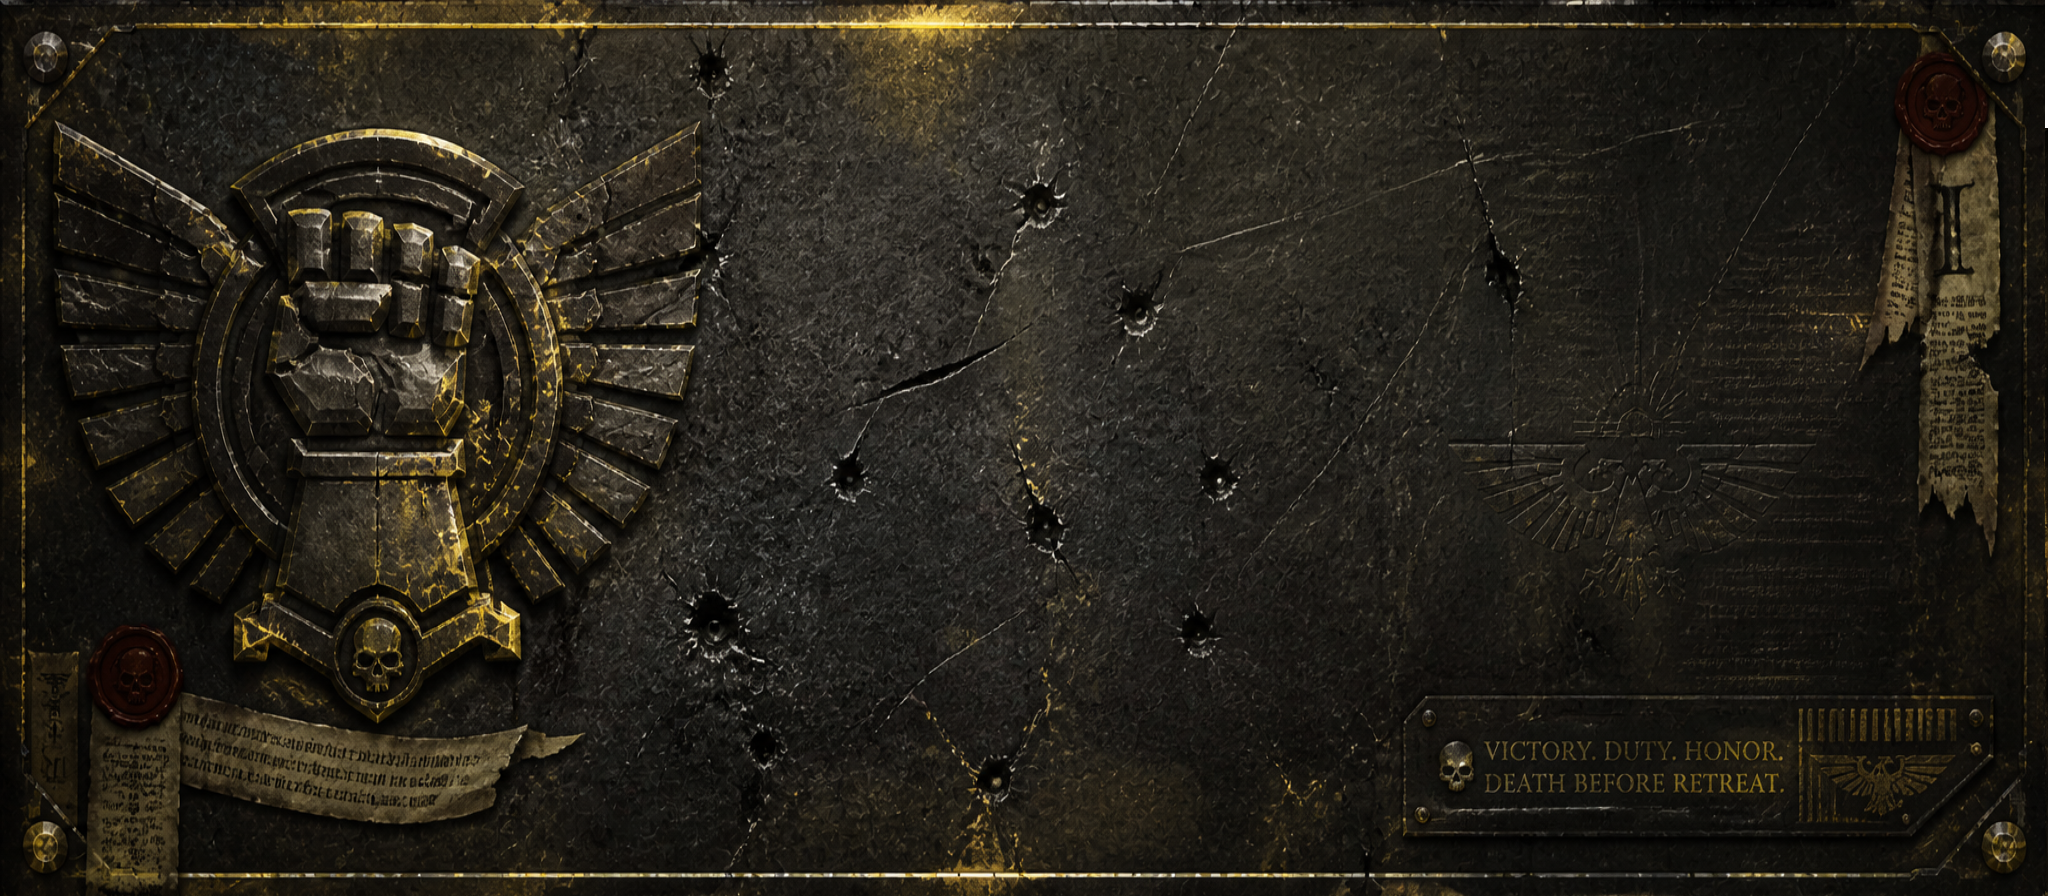
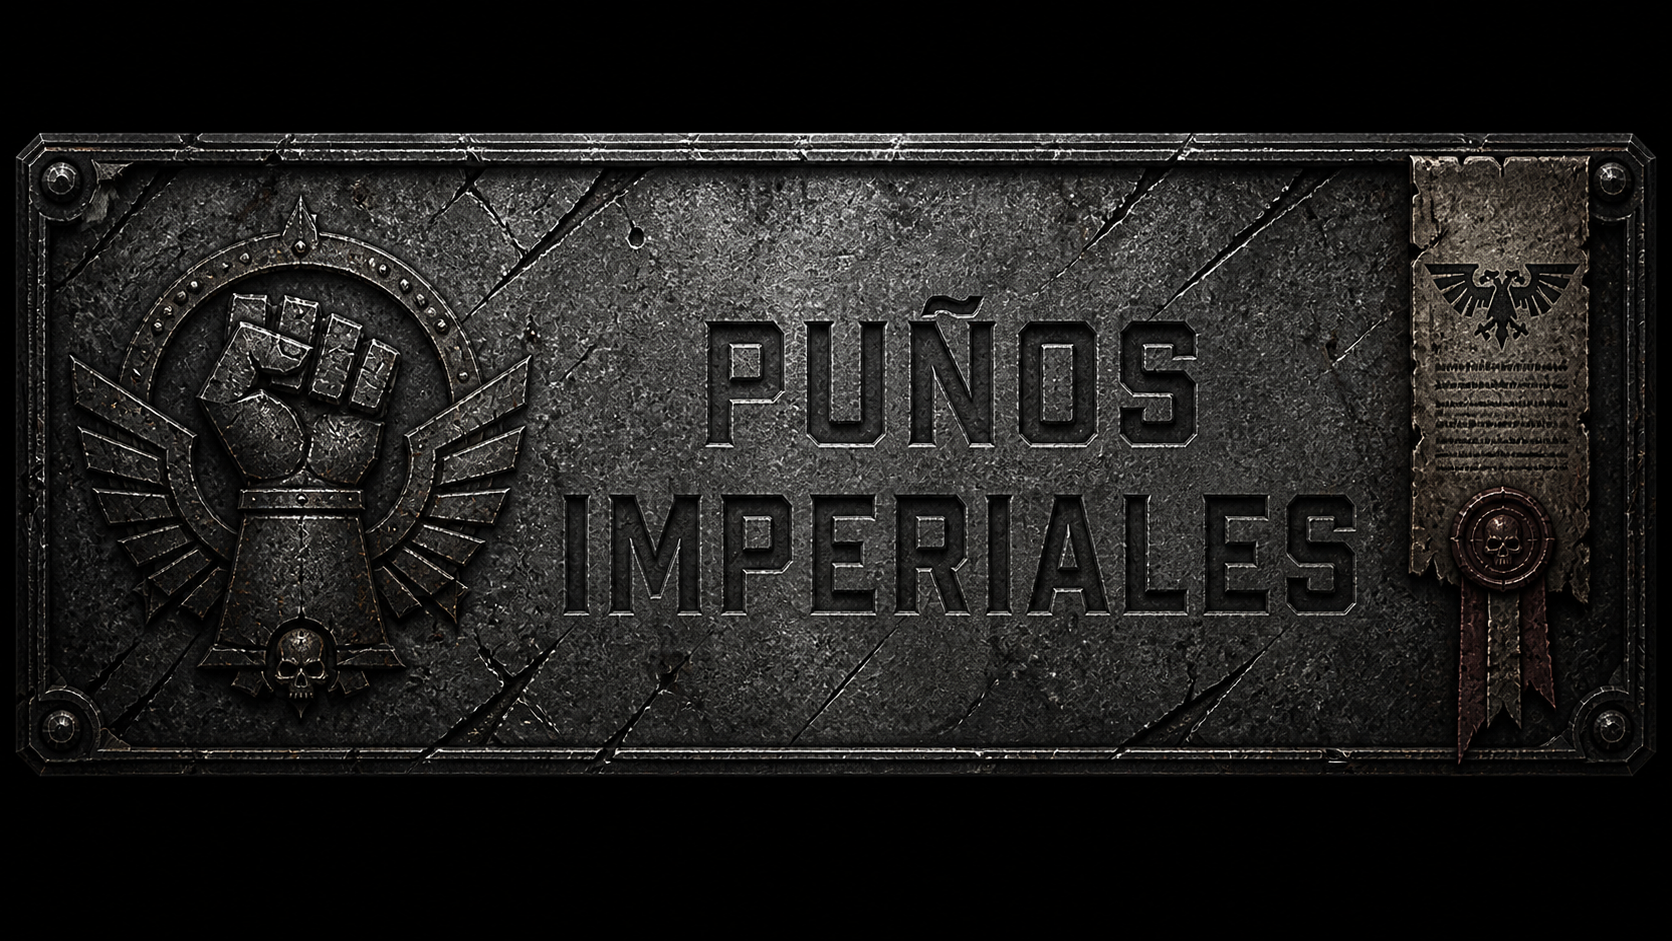
feat: new plates

diff --git a/src/armies/armiesList.js b/src/armies/armiesList.js
@@ -13,32 +13,16 @@ export default function ArmiesList() {
 
         <ul>
           <Link to="/armies/imperialFist">
-            <div className="linkContainer flex column armiesListDiv imperialFist">
-              <div className="flex">
-                <h3>Puños Imperiales</h3>
-              </div>
-            </div>
+            <div className="linkContainer flex column armiesListDiv imperialFist"></div>
           </Link>
           <Link to="/armies/mechanicus">
-            <div className="linkContainer flex column armiesListDiv mechanicus">
-              <div className="flex">
-                <h3>Adeptus Mechanicus</h3>
-              </div>
-            </div>
+            <div className="linkContainer flex column armiesListDiv mechanicus"></div>
           </Link>
           <Link to="/armies/sororitas">
-            <div className="linkContainer flex column armiesListDiv sororitas">
-              <div className="flex">
-                <h3>Adepta Sororitas</h3>
-              </div>
-            </div>
+            <div className="linkContainer flex column armiesListDiv sororitas"></div>
           </Link>
           <Link to="/armies/tyranids">
-            <div className="linkContainer flex column armiesListDiv tyranids">
-              <div className="flex">
-                <h3>Tyranidos</h3>
-              </div>
-            </div>
+            <div className="linkContainer flex column armiesListDiv tyranids"></div>
           </Link>
         </ul>
       </div>

diff --git a/public/index.html b/public/index.html
@@ -1,4 +1,4 @@
-<!DOCTYPE html>
+<!doctype html>
 <html lang="en">
   <head>
     <meta charset="utf-8" />
@@ -11,6 +11,12 @@
     />
     <link rel="apple-touch-icon" href="%PUBLIC_URL%/logo192.png" />
     <link rel="manifest" href="%PUBLIC_URL%/manifest.json" />
+    <link rel="preconnect" href="https://fonts.googleapis.com" />
+    <link rel="preconnect" href="https://fonts.gstatic.com" crossorigin />
+    <link
+      href="https://fonts.googleapis.com/css2?family=Science+Gothic:wght@100..900&display=swap"
+      rel="stylesheet"
+    />
     <title>Warhammer</title>
   </head>
   <body>

diff --git a/src/App.css b/src/App.css
@@ -22,9 +22,9 @@
   background-size: cover;
   box-shadow: 0 0 12px #523500;
   color: #111;
-  font-size: 1.2rem;
+  font-size: 1.1rem;
   text-shadow: 0 0 4px #a0a0a0;
-  font-family: witch;
+  font-family: "Science Gothic", sans-serif;
   width: 85vw;
   height: 90px;
   border-radius: 8px;
